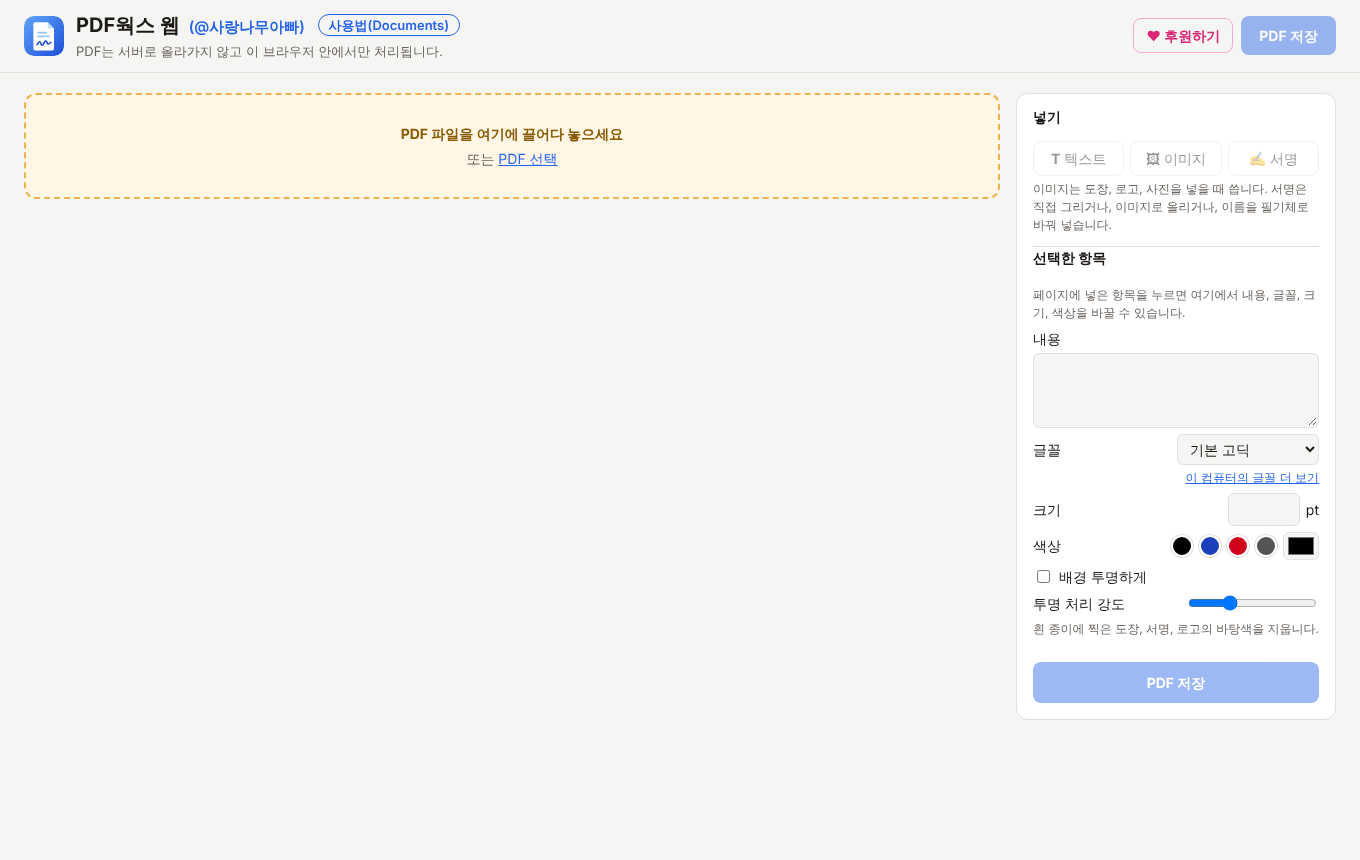
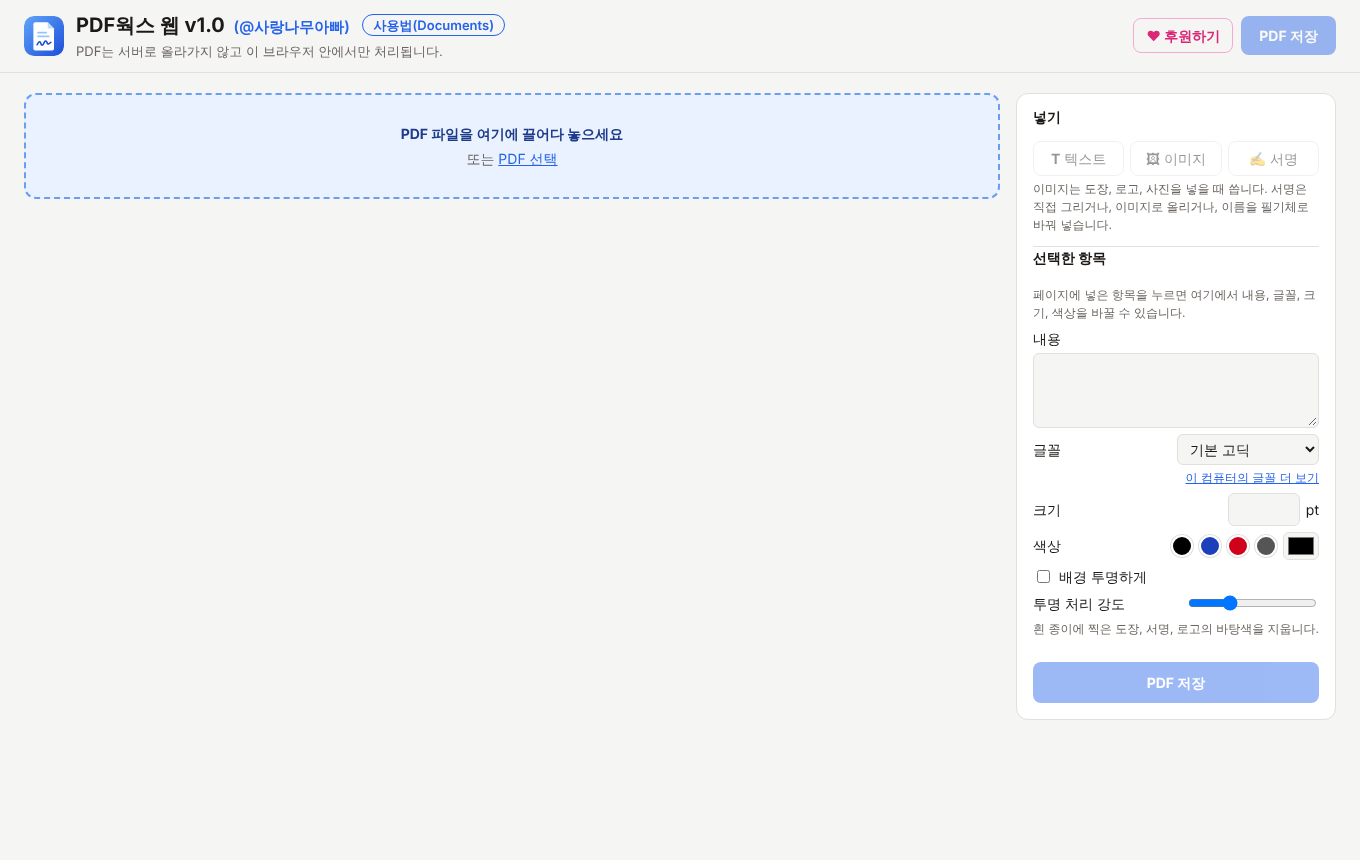
Show v1.0 in the title and give the drop zone a blue/coral colour set
Claude-Session: https://claude.ai/code/session_01QCoRWxPHaKiiMhxqMUmwX6

Changed region(s): [[0.0, 0.0907, 0.7412, 0.2419], [0.1235, 0.0, 0.3706, 0.0605]]

diff --git a/css/style.css b/css/style.css
@@ -18,10 +18,12 @@
   --line: #e2dfdc;
   --accent: #2563eb;
   --accent-text: #ffffff;
-  --drop: #eef3fe;
-  --dz-bg: #fff6e5;
-  --dz-line: #f0b34f;
-  --dz-text: #8a5a00;
+  /* 파일 넣는 곳: 포토웍스는 녹색·갈색, PDF웍스는 파란색 + 끌어다 놓는 순간 코랄(산호색) */
+  --drop: #fff1ec;
+  --drop-line: #f2735f;
+  --dz-bg: #eaf2ff;
+  --dz-line: #6b9df0;
+  --dz-text: #1e3a8a;
   --ok: #15803d;
   --err: #b91c1c;
   --sel: #2563eb;
@@ -36,10 +38,11 @@
     --line: #36332f;
     --accent: #5b8cff;
     --accent-text: #0b0b0b;
-    --drop: #1f2a40;
-    --dz-bg: #2b2316;
-    --dz-line: #a87a2e;
-    --dz-text: #f2c879;
+    --drop: #3a2420;
+    --drop-line: #e0705f;
+    --dz-bg: #15233b;
+    --dz-line: #3f6fc4;
+    --dz-text: #9cc0ff;
     --ok: #4ade80;
     --err: #f87171;
     --sel: #5b8cff;
@@ -98,7 +101,8 @@ button, input, select, textarea { font: inherit; color: inherit; }
   transition: background .15s, border-color .15s;
   cursor: pointer;
 }
-.dropzone.over { background: var(--drop); border-color: var(--accent); }
+.dropzone.over { background: var(--drop); border-color: var(--drop-line); }
+.dropzone.over .dz-title { color: var(--drop-line); }
 .dz-title { margin: 0 0 4px; font-weight: 700; color: var(--dz-text); }
 .dz-sub { margin: 0; color: var(--muted); }
 .link { background: none; border: 0; padding: 0; color: var(--accent); cursor: pointer; text-decoration: underline; }

diff --git a/index.html b/index.html
@@ -3,7 +3,7 @@
 <head>
   <meta charset="utf-8">
   <meta name="viewport" content="width=device-width, initial-scale=1, viewport-fit=cover">
-  <title>PDF웍스 웹</title>
+  <title>PDF웍스 웹 v1.0</title>
   <meta name="description" content="PDF에 글자, 이미지, 서명을 넣는 간단한 편집기. 파일은 서버로 올라가지 않고 이 브라우저 안에서만 처리됩니다.">
   <link rel="icon" href="img/icon.svg" type="image/svg+xml">
   <meta name="theme-color" content="#1d4ed8">
@@ -13,7 +13,7 @@
   <header class="topbar">
     <img class="logo" src="img/icon.svg" alt="" width="40" height="40">
     <div class="brand">
-      <h1>PDF웍스 웹 <a class="author" href="http://blog.naver.com/hupers" target="_blank" rel="noopener">(@사랑나무아빠)</a>
+      <h1>PDF웍스 웹 v1.0 <a class="author" href="http://blog.naver.com/hupers" target="_blank" rel="noopener">(@사랑나무아빠)</a>
         <a class="docs-link" href="https://github.com/hupers77/ProjPDFeditor#readme" target="_blank" rel="noopener">사용법(Documents)</a></h1>
       <p class="tagline">PDF는 서버로 올라가지 않고 이 브라우저 안에서만 처리됩니다.</p>
     </div>
